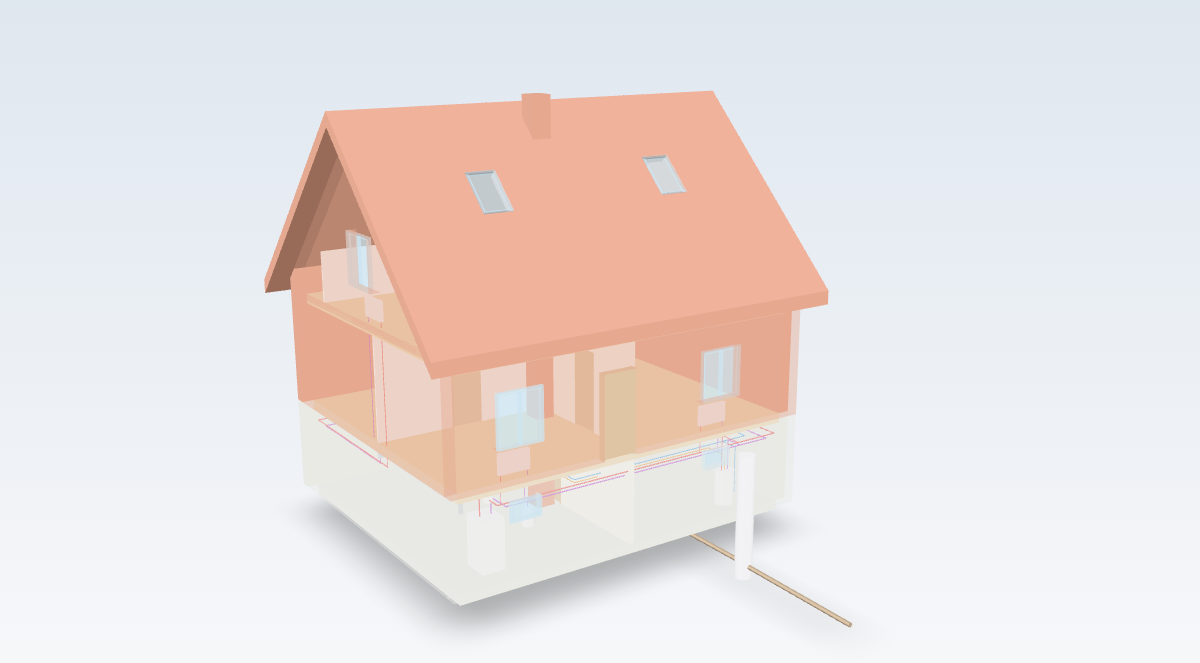
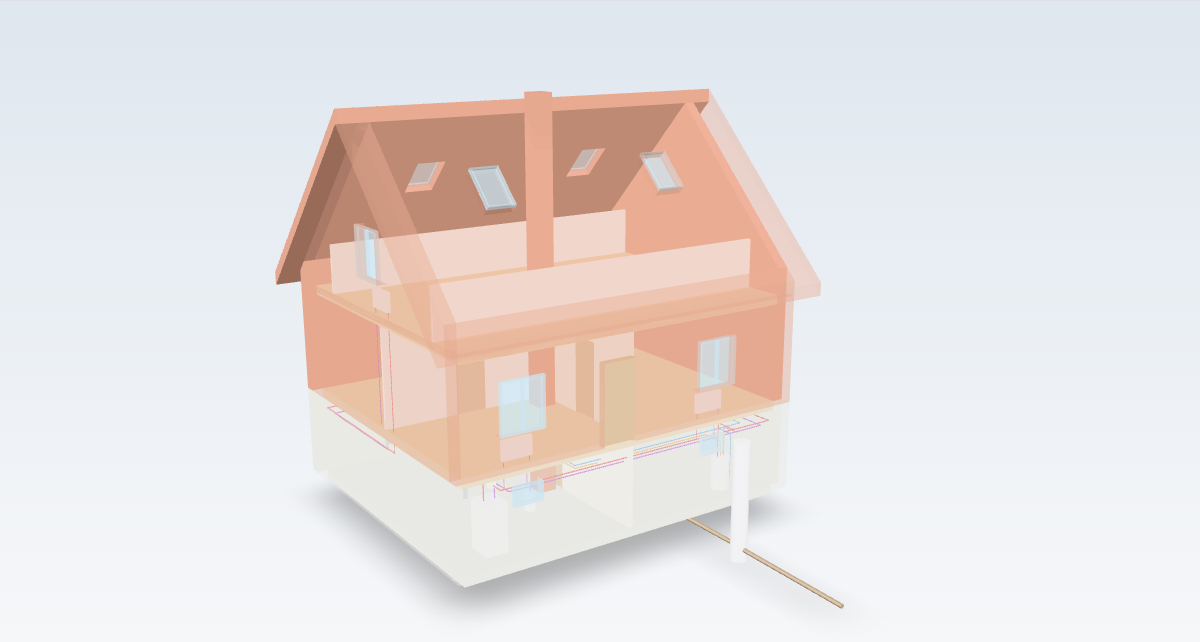
3D demo: south roof face see-through too

diff --git a/scripts/demo_site.py b/scripts/demo_site.py
@@ -43,7 +43,7 @@ model-viewer {{ flex: 1; width: 100%; background: linear-gradient(#dfe7ef, #f6f7
 @media (prefers-color-scheme: dark) {{ model-viewer {{ background: linear-gradient(#232a33, #14171c); }} }}
 </style></head><body>
 <header><h1>BIM model of the example house</h1>
-<p>The same house as the FEM model: structure, roof windows and the full plumbing and heating installation, with the south and west facades see-through.
+<p>The same house as the FEM model: structure, roof windows and the full plumbing and heating installation, with the south and west facades and the south roof face see-through.
 IFC4 built with <code>bim.py byg</code> from <a href="{repo}/blob/main/plugins/byg-bim/skills/bim-viden/assets/eksempel/model.yaml">model.yaml</a>,
 exported with <code>bim.py eksport</code>. Drag to rotate, scroll to zoom. · <a href="../">All examples</a> · <a href="{repo}">GitHub</a></p></header>
 <model-viewer src="hus.glb" alt="3D BIM model of the example house" camera-controls touch-action="pan-y"
@@ -63,7 +63,7 @@ main {{ max-width: 960px; margin: 0 auto; padding: 16px; display: grid; gap: 16p
 <header><h1>Engineer Any House – 3D examples</h1>
 <p>Generated in CI from the examples in the repository. · <a href="{repo}">GitHub</a></p></header>
 <main>
-<a class="card" href="bim/"><img src="bim.png" alt=""><div><h2>BIM model</h2><p>IFC4 house with roof windows, central heating, hot and cold water and drains. Two facades are see-through so the inside shows.</p></div></a>
+<a class="card" href="bim/"><img src="bim.png" alt=""><div><h2>BIM model</h2><p>IFC4 house with roof windows, central heating, hot and cold water and drains. Two facades and one roof face are see-through so the inside shows.</p></div></a>
 <a class="card" href="fem/"><img src="fem.png" alt=""><div><h2>FEM model</h2><p>The same house, with walls and slabs as shell elements: stresses, forces and deflection per load combination (Danish UI).</p></div></a>
 </main></body></html>
 """
@@ -80,8 +80,8 @@ def build(out: pathlib.Path):
     work = out / "_work"
     (out / "bim").mkdir(parents=True)
     run(BIM, "byg", BIM_SPEC, "--ud", work / "hus.ifc")
-    # south (segment .1) and west (.4) facades see-through on every storey, so the structure inside shows
-    run(BIM, "eksport", work / "hus.ifc", "--ud", out / "bim/hus.glb", "--gennemsigtig", "*-YV.1", "*-YV.4")
+    # south (segment .1) and west (.4) facades on every storey and the south roof face see-through, so the inside shows
+    run(BIM, "eksport", work / "hus.ifc", "--ud", out / "bim/hus.glb", "--gennemsigtig", "*-YV.1", "*-YV.4", "TAG1.side1")
     (out / "bim/index.html").write_text(BIM_PAGE.format(mv=MODEL_VIEWER, style=STYLE, repo=REPO), encoding="utf-8")
     shutil.copy(FEM_SPEC, work / "fem.yaml")
     run(FEM, "regn", work / "fem.yaml", "--ud", work)

diff --git a/README.md b/README.md
@@ -23,7 +23,7 @@ Most houses come with little more than a few old drawings, a public building rec
 
 ## See it in 3D
 
-One example house from the repository, built and computed by the tools in CI. The BIM model has roof windows and the full plumbing and heating installation (central heating, radiators, hot water tank, hot and cold water, drains), with two facades see-through. The FEM model is the same house's walls and slabs. Click a picture to open the interactive viewer.
+One example house from the repository, built and computed by the tools in CI. The BIM model has roof windows and the full plumbing and heating installation (central heating, radiators, hot water tank, hot and cold water, drains), with two facades and one roof face see-through. The FEM model is the same house's walls and slabs. Click a picture to open the interactive viewer.
 
 | BIM model (IFC4) | FEM model (walls and slabs as shells) |
 |---|---|
